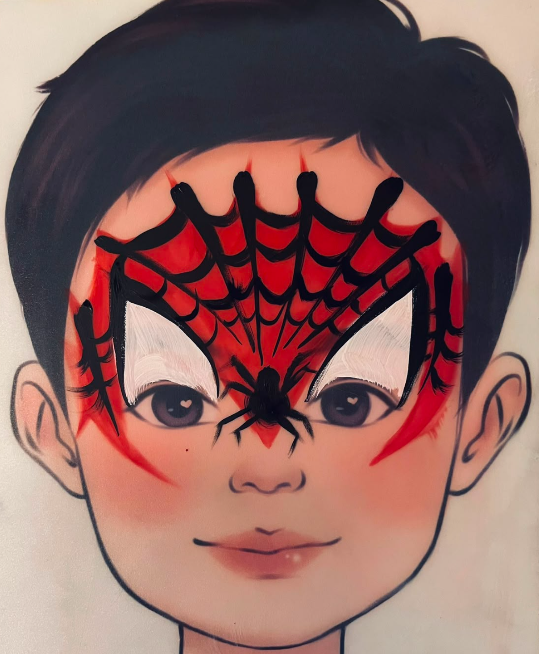
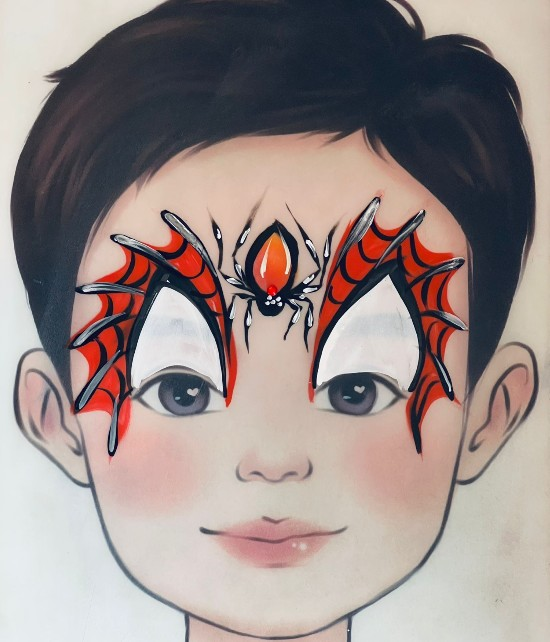
Voeg schminkmenu-designs en portfolio-foto's toe, vereenvoudig portfolio.
Nieuwe oefengezichten en echte foto's, portfolio zonder categorieen, telefoonnummer bijgewerkt en Flamingo ingevuld.

diff --git a/src/data/siteContent.ts b/src/data/siteContent.ts
@@ -38,10 +38,10 @@ export const siteContent = {
    * Alle telefoon-, e-mail- en WhatsApp-links komen hier vandaan.
    */
   contact: {
-    phone: "+31 6 53356421",
-    phoneLink: "+31653356421",
+    phone: "+31 6 26637089",
+    phoneLink: "+31626637089",
     email: "nolieschmink@gmail.com",
-    whatsappNumber: "31653356421",
+    whatsappNumber: "31626637089",
   },
 
   /**
@@ -265,7 +265,7 @@ export const siteContent = {
         title: "Spider-Man",
         category: "helden",
         src: "/images/schmink-spiderman-oefen.jpg",
-        alt: "Spider-Man-schmink op oefengezicht met webpatroon",
+        alt: "Spider-Man-schmink op oefengezicht met spinnenweb en spin op het voorhoofd",
       },
       {
         id: "tijger-oefen",
@@ -436,12 +436,11 @@ export const siteContent = {
         alt: "Paarse bloemkroon-schmink met roze accenten en glitter op oefengezicht",
       },
       {
-        id: "flamingo-reserve",
+        id: "flamingo-oefen",
         title: "Flamingo",
         category: "dieren",
-        src: "",
-        alt: "Flamingo-schmink — binnenkort beschikbaar",
-        comingSoon: true,
+        src: "/images/schmink-flamingo-oefen.jpg",
+        alt: "Roze flamingo-schmink met glitter en veeraccenten op oefengezicht",
       },
       {
         id: "schildpad-reserve",
@@ -458,6 +457,97 @@ export const siteContent = {
         src: "",
         alt: "Hello Kitty-schmink — binnenkort beschikbaar",
         comingSoon: true,
+      },
+      {
+        id: "charizard-oefen",
+        title: "Charizard",
+        category: "helden",
+        src: "/images/schmink-charizard-oefen.jpg",
+        alt: "Oranje Charizard-schmink met vlammen en vleugels op oefengezicht",
+      },
+      {
+        id: "regenboog-hart-oefen",
+        title: "Regenboog hart",
+        category: "prinsessen",
+        src: "/images/schmink-regenboog-hart-oefen.jpg",
+        alt: "Regenboog hart-schmink met sterretjes en witte swirls op oefengezicht",
+      },
+      {
+        id: "vlinder-roze-oefen",
+        title: "Vlinder roze",
+        category: "dieren",
+        src: "/images/schmink-vlinder-roze-oefen.jpg",
+        alt: "Roze-paarse vlinder-schmink met witte accenten op oefengezicht",
+      },
+      {
+        id: "vlinder-turquoise-oefen",
+        title: "Vlinder turquoise",
+        category: "dieren",
+        src: "/images/schmink-vlinder-turquoise-oefen.jpg",
+        alt: "Turquoise vlinder-schmink met witte highlights op oefengezicht",
+      },
+      {
+        id: "captain-america-oefen",
+        title: "Captain America",
+        category: "helden",
+        src: "/images/schmink-captain-america-oefen.jpg",
+        alt: "Captain America-schmink met schild, ster en vleugels op oefengezicht",
+      },
+      {
+        id: "eenhoorn-regenboog-oefen",
+        title: "Eenhoorn regenboog",
+        category: "prinsessen",
+        src: "/images/schmink-eenhoorn-regenboog-oefen.jpg",
+        alt: "Kleurrijke eenhoorn-schmink met regenboogmanen en hoorn op oefengezicht",
+      },
+      {
+        id: "captain-america-jongen",
+        title: "Captain America",
+        category: "prinsessen",
+        src: "/images/schmink-captain-america-jongen.jpg",
+        alt: "Jongen met Captain America-schmink: schild, ster en vleugels op het voorhoofd",
+      },
+      {
+        id: "meisjes-bloemen-vlinder",
+        title: "Bloemenkroon en vlinder",
+        category: "bloemen",
+        src: "/images/schmink-meisjes-bloemen-vlinder.jpg",
+        alt: "Twee meisjes met roze bloemenkroon-schmink en blauwe vlinder-schmink",
+      },
+      {
+        id: "tijger-jongen",
+        title: "Tijger",
+        category: "dieren",
+        src: "/images/schmink-tijger-jongen.jpg",
+        alt: "Jongen met oranje tijger-schmink, strepen en goudglitter op het gezicht",
+      },
+      {
+        id: "spiderman-jongen",
+        title: "Spider-Man",
+        category: "prinsessen",
+        src: "/images/schmink-spiderman-jongen.jpg",
+        alt: "Jongen met Spider-Man-schmink: spinnenweb, spin en rode glitter op het gezicht",
+      },
+      {
+        id: "konijn-meisje",
+        title: "Konijn",
+        category: "prinsessen",
+        src: "/images/schmink-konijn-meisje.jpg",
+        alt: "Meisje met roze konijnenoren, bloemen en sterretjes op het gezicht",
+      },
+      {
+        id: "arm-rozen-paars",
+        title: "Paarse rozen",
+        category: "armdesigns",
+        src: "/images/schmink-arm-rozen-paars.jpg",
+        alt: "Paarse rozen-armdesign met witte accenten, bladeren en sterretjes",
+      },
+      {
+        id: "arm-bloemen-roze",
+        title: "Roze bloemen",
+        category: "armdesigns",
+        src: "/images/schmink-arm-bloemen-roze.jpg",
+        alt: "Roze bloemen-armdesign met witte swirls en sterretjes",
       },
     ],
   },
@@ -500,7 +590,9 @@ export const siteContent = {
           "dino-oefen",
           "draak",
           "vlinder-oefen",
-          "flamingo-reserve",
+          "vlinder-roze-oefen",
+          "vlinder-turquoise-oefen",
+          "flamingo-oefen",
           "schildpad-reserve",
         ],
       },
@@ -511,9 +603,11 @@ export const siteContent = {
           "fee",
           "blauwe-prinses",
           "eenhoorn-oefen",
+          "eenhoorn-regenboog-oefen",
           "fantasiekroon-oefen",
           "hart",
           "hart-neon-oefen",
+          "regenboog-hart-oefen",
           "paarse-bloem-oefen",
         ],
       },
@@ -539,7 +633,9 @@ export const siteContent = {
           "minnie",
           "sonic-oefen",
           "pikachu",
+          "charizard-oefen",
           "spiderman-oefen",
+          "captain-america-oefen",
           "superheld",
           "hulk-oefen",
           "hello-kitty-reserve",
@@ -627,6 +723,13 @@ const itemKinds: Record<string, PortfolioItemKind> = {
   "draak-jongen-groen": "gezicht",
   "vos-meisje": "gezicht",
   "fantasiekroon-meisje": "gezicht",
+  "captain-america-jongen": "gezicht",
+  "meisjes-bloemen-vlinder": "gezicht",
+  "tijger-jongen": "gezicht",
+  "spiderman-jongen": "gezicht",
+  "konijn-meisje": "gezicht",
+  "arm-rozen-paars": "arm",
+  "arm-bloemen-roze": "arm",
 };
 
 export function getItemKind(id: string): PortfolioItemKind {

diff --git a/src/app/portfolio/page.tsx b/src/app/portfolio/page.tsx
@@ -22,8 +22,7 @@ export default function PortfolioPage() {
           title={portfolio.pageTitle}
           subtitle={portfolio.pageSubtitle}
           galleryItems={getPortfolioItems()}
-          galleryCategories={portfolio.portfolioCategories}
-          layout="grouped"
+          showCategories={false}
           showConsentNote
           className="border-t border-lavender/30 bg-surface-alt/40"
         />
